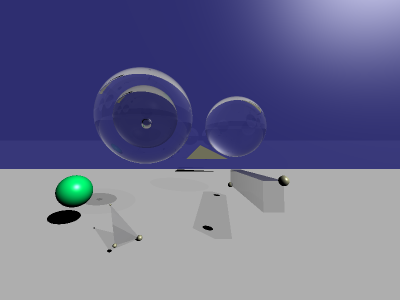
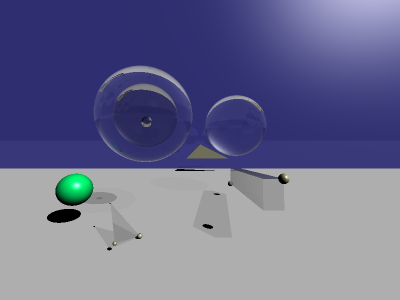
memory performance improve 2

diff --git a/aa_box.cpp b/aa_box.cpp
@@ -7,17 +7,18 @@
 #include "ray.h"
 #include "vector3d.hpp"
 
+const vector3df aa_box::normals[6] =
+{
+    vector3df(0.0, 0.0,  1.0), // front
+    vector3df(0.0, 0.0, -1.0), // back
+    vector3df(-1.0, 0.0, 0.0), // left
+    vector3df( 1.0, 0.0, 0.0), // right
+    vector3df(0.0,  1.0, 0.0), // top
+    vector3df(0.0, -1.0, 0.0)  // bottom
+};
+
 aa_box::aa_box(const vector3df &p, const vector3df &size)
-    : object(), p(p), size(size),
-      planes
-      {
-          plane(p + size, vector3df(0.0, 0.0,  1.0)), // front
-          plane(p,        vector3df(0.0, 0.0, -1.0)), // back
-          plane(p,        vector3df(-1.0, 0.0, 0.0)), // left
-          plane(p + size, vector3df( 1.0, 0.0, 0.0)), // right
-          plane(p + size, vector3df(0.0,  1.0, 0.0)), // top
-          plane(p,        vector3df(0.0, -1.0, 0.0))  // bottom
-      }
+    : object(), p(p), size(size)
 {
 
 }
@@ -25,6 +26,8 @@ aa_box::aa_box(const vector3df &p, const vector3df &size)
 intersect_result aa_box::intersect(const ray &r) const
 {
     // woo algorithm
+
+    // find planes to intersect
     std::size_t front_back, left_right, top_bottom;
     if (!is_inside(r.origin))
     {
@@ -109,71 +112,95 @@ intersect_result aa_box::intersect(const ray &r) const
         }
     }
 
-    intersect_result ir[3] { intersect_result::failed,
-                             intersect_result::failed,
-                             intersect_result::failed };
-
+    // intersect with 3 planes
+    vector3df p2 = p + size;
+    double intersection[3] { -1.0, -1.0, -1.0 };
     if (front_back != none)
     {
-        ir[0] = planes[front_back].intersect(r);
+        if (front_back == front)
+        {
+            intersection[0] = (p2.z - r.origin.z) / r.direction.z;
+        }
+        if (front_back == back)
+        {
+            intersection[0] = (p.z - r.origin.z) / r.direction.z;
+        }
     }
     if (left_right != none)
     {
-        ir[1] = planes[left_right].intersect(r);
+        if (left_right == left)
+        {
+            intersection[1] = (p.x - r.origin.x) / r.direction.x;
+        }
+        if (left_right == right)
+        {
+            intersection[1] = (p2.x - r.origin.x) / r.direction.x;
+        }
     }
     if (top_bottom != none)
     {
-        ir[2] = planes[top_bottom].intersect(r);
-    }
-
-    std::size_t furthest_index = 0;
-    for (std::size_t i = 1; i < 3; ++i)
-    {
-        if (ir[i].succeeded)
+        if (top_bottom == top)
         {
-            if (!ir[furthest_index].succeeded || ir[furthest_index].distance < ir[i].distance)
-            {
-                furthest_index = i;
-            }
+            intersection[2] = (p2.y - r.origin.y) / r.direction.y;
+        }
+        if (top_bottom == bottom)
+        {
+            intersection[2] = (p.y - r.origin.y) / r.direction.y;
         }
     }
 
-    intersect_result &result = ir[furthest_index];
+    // select the furthest one
+    std::size_t furthest_index = 0;
+    for (std::size_t i = 1; i < 3; ++i)
+    {
+        if (intersection[furthest_index] < intersection[i])
+        {
+            furthest_index = i;
+        }
+    }
 
-    if (!result.succeeded || result.distance < eps)
+    // further check
+    double &t = intersection[furthest_index];
+
+    if (t <= eps)
     {
         return intersect_result::failed;
     }
 
-    vector3df p2 = p + size;
+    intersect_result ir(r.origin + r.direction * t, vector3df::zero, t);
+    //                                              would be filled later
+
     if (furthest_index == 0) // front_back
     {
-        if (!(p.x < result.p.x && result.p.x < p2.x &&
-              p.y < result.p.y && result.p.y < p2.y))
+        if (!(p.x < ir.p.x && ir.p.x < p2.x &&
+              p.y < ir.p.y && ir.p.y < p2.y))
         {
             return intersect_result::failed;
         }
+        ir.n = normals[front_back];
     }
     else if (furthest_index == 1) // left_right
     {
-        if (!(p.y < result.p.y && result.p.y < p2.y &&
-              p.z < result.p.z && result.p.z < p2.z))
+        if (!(p.y < ir.p.y && ir.p.y < p2.y &&
+              p.z < ir.p.z && ir.p.z < p2.z))
         {
             return intersect_result::failed;
         }
+        ir.n = normals[left_right];
     }
     else if (furthest_index == 2) // top_bottom
     {
-        if (!(p.x < result.p.x && result.p.x < p2.x &&
-              p.z < result.p.z && result.p.z < p2.z))
+        if (!(p.x < ir.p.x && ir.p.x < p2.x &&
+              p.z < ir.p.z && ir.p.z < p2.z))
         {
             return intersect_result::failed;
         }
+        ir.n = normals[top_bottom];
     }
     else
     {
         return intersect_result::failed;
     }
 
-    return ir[furthest_index];
+    return ir;
 }

diff --git a/main.cpp b/main.cpp
@@ -140,17 +140,17 @@ int main(int argc, char **argv)
         vector3df(100.0, -0.1, -500.0)));
     tri2.diffuse = vector3df(0.5, 0.5, 0.5);
 
-    bezier_curve bc = bezier_curve::load("bezier_curve.txt");
-    mesh m = bc.to_rotate_surface_mesh(0.0001, 3.6);
-    for (auto &v : m.vertices)
-    {
-        v = v * 10.0;
-        v.x *= -1.0;
-        v.y *= -1.0;
-        // v.y += 40.0;
-    }
-    object &mo = w.add_object(std::make_shared<mesh_object>(m));
-    mo.diffuse = vector3df(0.24, 0.48, 0.53);
+    //bezier_curve bc = bezier_curve::load("bezier_curve.txt");
+    //mesh m = bc.to_rotate_surface_mesh(0.0001, 3.6);
+    //for (auto &v : m.vertices)
+    //{
+    //    v = v * 10.0;
+    //    v.x *= -1.0;
+    //    v.y *= -1.0;
+    //    // v.y += 40.0;
+    //}
+    //object &mo = w.add_object(std::make_shared<mesh_object>(m));
+    //mo.diffuse = vector3df(0.24, 0.48, 0.53);
     /*mo.diffuse = vector3df::zero;
     mo.refractiveness = vector3df::one * 0.9; // vector3df(0.0, 0.5, 1.0) * 0.9;
     mo.refractive_index = 1.333;
@@ -193,7 +193,7 @@ int main(int argc, char **argv)
     floor.reflectiveness = 0.9;*/
 
     w.lights.push_back(std::make_shared<parallel_light>(w, vector3df(-1.0, -1.0, -1.0).normalize(), vector3df(1.0, 1.0, 0.8) * 1.5));
-    //w.lights.push_back(std::make_shared<point_light>(w, vector3df(0.0, 600.0, -1000.0), vector3df(1.0, 1.0, 0.8)));
+    //w.lights.push_back(std::make_shared<point_light>(w, vector3df(-100.0, 60.0, -100.0), vector3df(1.0, 1.0, 0.8)));
     //w.lights.push_back(std::make_shared<point_light>(w, vector3df(1000.0, 1500.0, 0.0), vector3df(1.0, 1.0, 0.8)));
     //w.lights.push_back(std::make_shared<point_light>(w, vector3df(0.0, -750.0, -400.0), vector3df(1.0, 1.0, 0.8) * 0.9));
     //w.lights.push_back(std::make_shared<point_light>(w, vector3df(0.0, 1000.0, 100.0), vector3df(1.0, 1.0, 0.8) * 0.9));
@@ -209,7 +209,7 @@ int main(int argc, char **argv)
         }
     }*/
 
-    camera c(w, vector3df(0.0, 1.0, 147), vector3df(0.0, 0.05, -1.0).normalize(), vector3df(0.0, 1.0, 0.0));
+    camera c(w, vector3df(0.0, -1.0, 147.0), vector3df(0.0, 0.05, -1.0).normalize(), vector3df(0.0, 1.0, 0.0));
         
     // Performance test.
     for (int N = 1; N <= 1; ++N)

diff --git a/aa_box.h b/aa_box.h
@@ -14,7 +14,6 @@ class aa_box
 public:
     const vector3df p;
     const vector3df size;
-    const plane planes[6];
 
 public:
     aa_box(const vector3df &p, const vector3df &size);
@@ -33,6 +32,7 @@ public:
                                  left = 2, right = 3,
                                  top = 4, bottom = 5,
                                  none = 6;
+    static const vector3df normals[6];
 };
 
 
